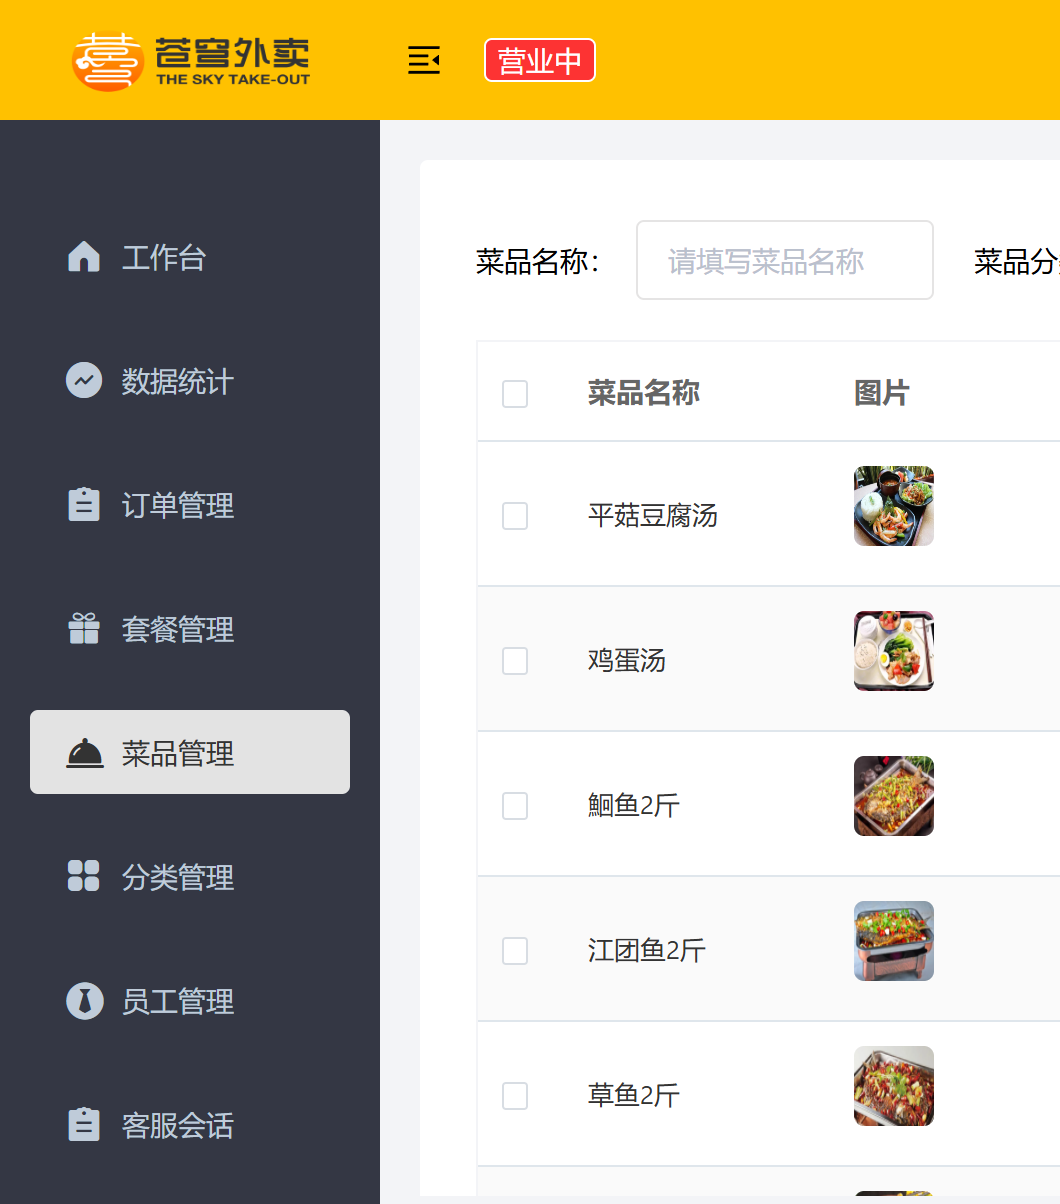
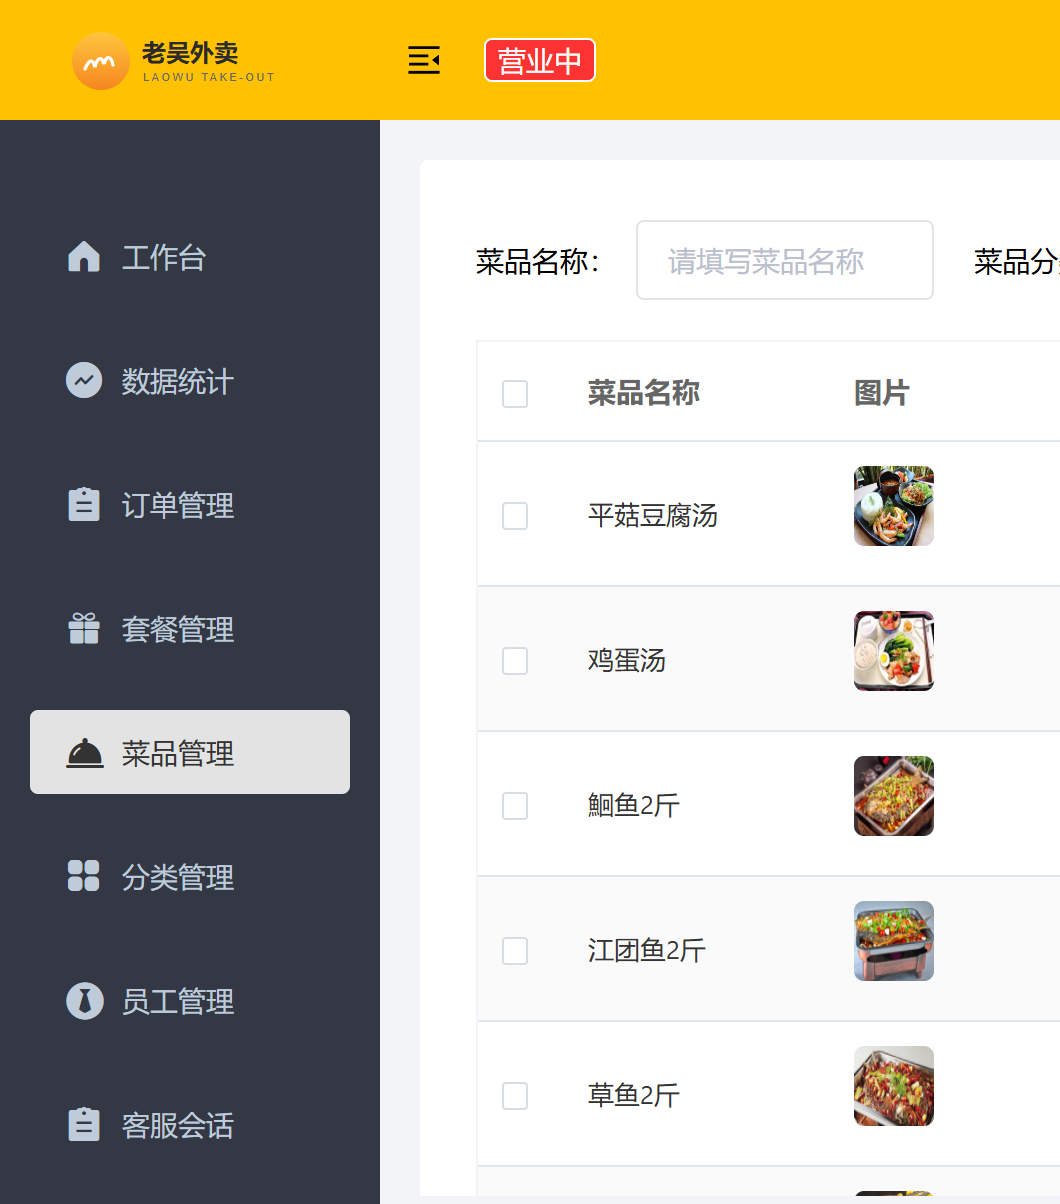
feat: 品牌名全面从苍穹外卖更换为老吴外卖
- 页面标题、路由标题、PWA 名称等文字处统一替换
- 侧边栏与登录页 logo 替换为新的"老吴外卖"SVG 标识，
  删除含旧品牌字样的三张 PNG
- README 截图更新为更换品牌后的真实运行画面
- 开源基线声明中对课程原名《苍穹外卖》的出处引用保留

Changed region(s): [[0.0623, 0.0307, 0.3113, 0.0922]]

diff --git a/sky-web/src/router.ts b/sky-web/src/router.ts
@@ -29,12 +29,12 @@ const router = new Router({
       path: "/login",
       component: () =>
         import(/* webpackChunkName: "login" */ "@/views/login/index.vue"),
-      meta: { title: "苍穹外卖", hidden: true, notNeedAuth: true }
+      meta: { title: "老吴外卖", hidden: true, notNeedAuth: true }
     },
     {
       path: "/404",
       component: () => import(/* webpackChunkName: "404" */ "@/views/404.vue"),
-      meta: { title: "苍穹外卖", hidden: true, notNeedAuth: true }
+      meta: { title: "老吴外卖", hidden: true, notNeedAuth: true }
     },
     {
       path: "/",

diff --git a/sky-web/src/views/login/index.vue b/sky-web/src/views/login/index.vue
@@ -6,11 +6,11 @@
         <el-form ref="loginForm" :model="loginForm" :rules="loginRules">
           <div class="login-form-title">
             <img
-              src="@/assets/login/icon_logo.png"
+              src="@/assets/login/logo.svg"
               style="width: 149px; height: 38px"
               alt=""
             />
-            <!-- <span class="title-label">苍穹外卖</span> -->
+            <!-- <span class="title-label">老吴外卖</span> -->
           </div>
           <el-form-item prop="username">
             <el-input

diff --git a/sky-web/src/layout/components/Sidebar/index.vue b/sky-web/src/layout/components/Sidebar/index.vue
@@ -13,12 +13,12 @@
       /> -->
       <div v-if="!isCollapse"
            class="sidebar-logo">
-        <img src="@/assets/login/logo.png"
+        <img src="@/assets/login/logo.svg"
              style="width: 120px; height: 31px">
       </div>
       <div v-else
            class="sidebar-logo-mini">
-        <img src="@/assets/login/mini-logo.png">
+        <img src="@/assets/login/mini-logo.svg">
       </div>
     </div>
     <el-scrollbar wrap-class="scrollbar-wrapper">

diff --git a/sky-web/public/index.html b/sky-web/public/index.html
@@ -6,7 +6,7 @@
     <meta name="viewport" content="width=device-width,initial-scale=1.0" />
     <link rel="icon" href="favicon.ico" type="image/x-icon" />
     <link rel="shortcut icon" href="favicon.ico" type="image/x-icon" />
-    <title>苍穹外卖</title>
+    <title>老吴外卖</title>
   </head>
   <body>
     <noscript>

diff --git a/sky-take-out/sky-agent/tests/_api_diff_user.py b/sky-take-out/sky-agent/tests/_api_diff_user.py
@@ -1,7 +1,7 @@
 import json, httpx
 
 # Apifox exported doc (user-side)
-with open(r"c:\Users\wbc94\Desktop\苍穹外卖-用户端接口.openapi.json", encoding="utf-8") as f:
+with open(r"c:\Users\wbc94\Desktop\老吴外卖-用户端接口.openapi.json", encoding="utf-8") as f:
     af = json.load(f)
 af_paths = set(af.get("paths", {}).keys())
 

diff --git a/sky-take-out/sky-agent/tests/_api_diff.py b/sky-take-out/sky-agent/tests/_api_diff.py
@@ -1,7 +1,7 @@
 import json, httpx
 
 # Apifox exported doc
-with open(r"c:\Users\wbc94\Desktop\苍穹外卖-管理端接口.openapi.json", encoding="utf-8") as f:
+with open(r"c:\Users\wbc94\Desktop\老吴外卖-管理端接口.openapi.json", encoding="utf-8") as f:
     af = json.load(f)
 af_paths = set(af.get("paths", {}).keys())
 
